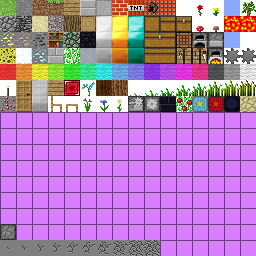
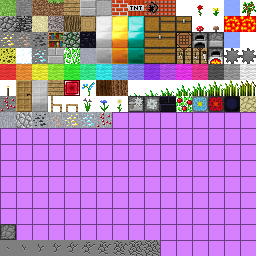
kinda floating world gen overhaul

Changed region(s): [[0.0, 0.4375, 0.4375, 0.5]]

diff --git a/src/game/java/net/minecraft/game/level/block/Block.java b/src/game/java/net/minecraft/game/level/block/Block.java
@@ -107,6 +107,13 @@ public class Block {
 	public static final Block brickObsidian;
 	public static final Block leavesApple;
 	public static final Block stoneSand;
+	public static final Block stoneLite;
+	public static final Block cobblestoneLite;
+	public static final Block oreLiteCoal;
+	public static final Block oreLiteIron;
+	public static final Block oreLiteGold;
+	public static final Block oreLiteDiamond;
+	public static final Block oreLiteRuby;
 	public int blockIndexInTexture;
 	public final int blockID;
 	private float hardness;
@@ -797,6 +804,41 @@ public class Block {
 		var0 = var10000;
 		var0.stepSound = var1;
 		stoneSand = var0;
+		var10000 = (new BlockLiteStone(75, 112)).setHardness(1.5F).setResistance(10.0F);
+		var1 = soundStoneFootstep;
+		var0 = var10000;
+		var0.stepSound = var1;
+		stoneLite = var0;
+		var10000 = (new Block(76, 113, Material.rock, "Cobbled Litestone")).setHardness(2.0F).setResistance(10.0F);
+		var1 = soundStoneFootstep;
+		var0 = var10000;
+		var0.stepSound = var1;
+		cobblestoneLite = var0;
+		var10000 = (new BlockOre(77, 114, "Lite Coal Ore")).setHardness(3.0F).setResistance(5.0F);
+		var1 = soundStoneFootstep;
+		var0 = var10000;
+		var0.stepSound = var1;
+		oreLiteCoal = var0;
+		var10000 = (new BlockOre(78, 115, "Lite Iron Ore")).setHardness(3.0F).setResistance(5.0F);
+		var1 = soundStoneFootstep;
+		var0 = var10000;
+		var0.stepSound = var1;
+		oreLiteIron = var0;
+		var10000 = (new BlockOre(79, 115, "Lite Gold Ore")).setHardness(3.0F).setResistance(5.0F);
+		var1 = soundStoneFootstep;
+		var0 = var10000;
+		var0.stepSound = var1;
+		oreLiteGold = var0;
+		var10000 = (new BlockOre(80, 115, "Lite Diamond Ore")).setHardness(3.0F).setResistance(5.0F);
+		var1 = soundStoneFootstep;
+		var0 = var10000;
+		var0.stepSound = var1;
+		oreLiteDiamond = var0;
+		var10000 = (new BlockOre(81, 115, "Lite Ruby Ore")).setHardness(3.0F).setResistance(5.0F);
+		var1 = soundStoneFootstep;
+		var0 = var10000;
+		var0.stepSound = var1;
+		oreLiteRuby = var0;
 		for (int var2 = 0; var2 < 256; ++var2) {
 			if (blocksList[var2] != null) {
 				Item.itemsList[var2] = new ItemBlock(var2 - 256, blocksList[var2].name);

diff --git a/src/game/java/net/minecraft/game/item/ItemPickaxe.java b/src/game/java/net/minecraft/game/item/ItemPickaxe.java
@@ -4,7 +4,7 @@ import net.minecraft.game.level.block.Block;
 import net.minecraft.game.level.material.Material;
 
 public final class ItemPickaxe extends ItemTool {
-	private static Block[] blocksEffectiveAgainst = new Block[]{Block.cobblestone, Block.stairDouble, Block.stairSingle, Block.stone, Block.cobblestoneMossy, Block.oreIron, Block.blockSteel, Block.oreCoal, Block.blockGold, Block.oreGold, Block.oreDiamond, Block.blockDiamond, Block.oreRuby, Block.stonecutter, Block.brickStone, Block.stoneOvenIdle, Block.stoneOvenActive};
+	private static Block[] blocksEffectiveAgainst = new Block[]{Block.cobblestone, Block.stairDouble, Block.stairSingle, Block.stone, Block.cobblestoneMossy, Block.oreIron, Block.blockSteel, Block.oreCoal, Block.blockGold, Block.oreGold, Block.oreDiamond, Block.blockDiamond, Block.oreRuby, Block.stonecutter, Block.brickStone, Block.stoneOvenIdle, Block.stoneOvenActive, Block.stoneLite, Block.cobblestoneLite, Block.oreLiteCoal, Block.oreLiteIron, Block.oreLiteGold, Block.oreLiteDiamond, Block.oreLiteRuby};
 	private int harvestLevel;
 
 	public ItemPickaxe(int var1, int var2, String var3) {
@@ -13,6 +13,6 @@ public final class ItemPickaxe extends ItemTool {
 	}
 
 	public final boolean canHarvestBlock(Block var1) {
-		return var1 == Block.obsidian ? this.harvestLevel == 3 : (var1 != Block.blockDiamond && var1 != Block.oreDiamond ? (var1 != Block.blockGold && var1 != Block.oreGold ? (var1 != Block.blockSteel && var1 != Block.oreIron ? (var1.material == Material.rock ? true : var1.material == Material.iron) : this.harvestLevel > 0) : this.harvestLevel >= 2) : this.harvestLevel >= 2);
+		return var1 == Block.obsidian ? this.harvestLevel == 3 : (var1 != Block.blockDiamond && var1 != Block.oreDiamond && var1 != Block.oreLiteDiamond && var1 != Block.oreRuby && var1 != Block.oreLiteRuby ? (var1 != Block.blockGold && var1 != Block.oreGold && var1 != Block.oreLiteGold ? (var1 != Block.blockSteel && var1 != Block.oreIron && var1 != Block.oreLiteIron ? (var1.material == Material.rock ? true : var1.material == Material.iron) : this.harvestLevel > 0) : this.harvestLevel >= 2) : this.harvestLevel >= 2);
 	}
 }

diff --git a/src/game/java/net/minecraft/game/item/recipe/CraftingManager.java b/src/game/java/net/minecraft/game/item/recipe/CraftingManager.java
@@ -28,6 +28,8 @@ public final class CraftingManager {
 		this.addRecipe(new ItemStack(Block.stoneOvenIdle), new Object[]{"###", "# #", "###", Character.valueOf('#'), Block.cobblestone});
 		this.addRecipe(new ItemStack(Block.workbench), new Object[]{"##", "##", Character.valueOf('#'), Block.planks});
 		this.addRecipe(new ItemStack(Block.stonecutter), new Object[]{"##", "##", Character.valueOf('#'), Block.cobblestone});
+		this.addRecipe(new ItemStack(Block.stonecutter), new Object[]{"XX", "XX", Character.valueOf('X'), Block.cobblestoneLite});
+		this.addRecipe(new ItemStack(Block.stoneOvenIdle), new Object[]{"###", "# #", "###", Character.valueOf('#'), Block.cobblestoneLite});
 		(new RecipesArmor()).addRecipes(this);
 		this.addRecipe(new ItemStack(Block.clothWhite, 1), new Object[]{"###", "###", "###", Character.valueOf('#'), Item.silk});
 		this.addRecipe(new ItemStack(Block.tnt, 1), new Object[]{"X#X", "#X#", "X#X", Character.valueOf('X'), Item.gunpowder, Character.valueOf('#'), Block.sand});
@@ -69,7 +71,6 @@ public final class CraftingManager {
 		this.addRecipe(new ItemStack(Block.clothRose, 1), new Object[]{"#X", Character.valueOf('#'), Item.dyeRose, Character.valueOf('X'), Block.clothWhite});
 		this.addRecipe(new ItemStack(Item.dyeGrey, 2), new Object[]{"#", Character.valueOf('#'), Block.plantGrey});
 		this.addRecipe(new ItemStack(Block.clothGray, 1), new Object[]{"#X", Character.valueOf('#'), Item.dyeGrey, Character.valueOf('X'), Block.clothWhite});
-		this.addRecipe(new ItemStack(Block.stonecutter, 1), new Object[]{"XX", "XX", Character.valueOf('X'), Block.cobblestone});
 			
 		Collections.sort(this.recipes, new RecipeSorter(this));
 		System.out.println(this.recipes.size() + " recipes");

diff --git a/src/game/java/net/minecraft/game/level/block/tileentity/TileEntityFurnace.java b/src/game/java/net/minecraft/game/level/block/tileentity/TileEntityFurnace.java
@@ -178,7 +178,7 @@ public final class TileEntityFurnace extends TileEntity implements IInventory {
 	}
 
 	private static int smeltItem(int var0) {
-		return var0 == Block.oreIron.blockID ? Item.ingotIron.shiftedIndex : (var0 == Block.oreGold.blockID ? Item.ingotGold.shiftedIndex : (var0 == Block.oreDiamond.blockID ? Item.diamond.shiftedIndex : (var0 == Block.sand.blockID ? Block.glass.blockID : (var0 == Item.porkRaw.shiftedIndex ? Item.porkCooked.shiftedIndex : (var0 == Block.cobblestone.blockID ? Block.stone.blockID : (var0 == Block.oreRuby.blockID ? Item.ruby.shiftedIndex : (var0 == Item.clay.shiftedIndex ? Item.brick.shiftedIndex : (var0 == Item.monstermeat.shiftedIndex ? Item.monstermeatCooked.shiftedIndex : -1))))))));
+		return var0 == Block.oreIron.blockID ? Item.ingotIron.shiftedIndex : (var0 == Block.oreGold.blockID ? Item.ingotGold.shiftedIndex : (var0 == Block.oreDiamond.blockID ? Item.diamond.shiftedIndex : (var0 == Block.sand.blockID ? Block.glass.blockID : (var0 == Item.porkRaw.shiftedIndex ? Item.porkCooked.shiftedIndex : (var0 == Block.cobblestone.blockID ? Block.stone.blockID : (var0 == Block.oreRuby.blockID ? Item.ruby.shiftedIndex : (var0 == Item.clay.shiftedIndex ? Item.brick.shiftedIndex : (var0 == Item.monstermeat.shiftedIndex ? Item.monstermeatCooked.shiftedIndex : (var0 == Block.oreLiteIron.blockID ? Item.ingotIron.shiftedIndex : (var0 == Block.oreLiteGold.blockID ? Item.ingotGold.shiftedIndex : -1))))))))));
 	}
 
 	private static int getItemBurnTime(ItemStack var0) {

diff --git a/src/game/java/net/minecraft/game/level/generator/LevelGenerator.java b/src/game/java/net/minecraft/game/level/generator/LevelGenerator.java
@@ -215,7 +215,7 @@ public final class LevelGenerator {
 						if (var35 <= var31) {
 							var37 = Block.stone.blockID;
 								if (var9.floatingGen && var35 < var31) {
-								var37 = Block.wood.blockID;
+								var37 = Block.stoneLite.blockID;
 							}
 						}
 
@@ -351,6 +351,15 @@ public final class LevelGenerator {
 		var45 = this.populateOre(Block.oreGold.blockID, 500, 6, (var4 << 1) / 5);
 		var5 = this.populateOre(Block.oreDiamond.blockID, 800, 2, var4 / 5);
 		int ruby = this.populateOre(Block.oreRuby.blockID, 500, 2, var4 / 5);
+		if (this.floatingGen) {
+			var7 = this.populateOre(Block.oreLiteCoal.blockID, 1000, 10, (var4 << 2) / 5);
+			var44 = this.populateOre(Block.oreLiteIron.blockID, 800, 8, var4 * 3 / 5);
+			var45 = this.populateOre(Block.oreLiteGold.blockID, 500, 6, (var4 << 1) / 5);
+			var5 = this.populateOre(Block.oreLiteDiamond.blockID, 800, 2, var4 / 5);
+			ruby = this.populateOre(Block.oreLiteRuby.blockID, 500, 2, var4 / 5);
+
+		}
+
 		System.out
 				.println("Coal: " + var7 + ", Iron: " + var44 + ", Gold: " + var45 + ", Diamond: " + var5 + ", Ruby: " + ruby);
 		this.guiLoading.displayLoadingString("Melting..");

diff --git a/src/game/java/net/minecraft/game/level/block/BlockOre.java b/src/game/java/net/minecraft/game/level/block/BlockOre.java
@@ -12,7 +12,10 @@ public final class BlockOre extends Block {
 	public final int idDropped(int var1, Random var2) {
 		return this.blockID == Block.oreCoal.blockID ? Item.coal.shiftedIndex
 				: (this.blockID == Block.oreDiamond.blockID ? Item.diamond.shiftedIndex
-						: (this.blockID == Block.oreRuby.blockID ? Item.ruby.shiftedIndex : this.blockID));
+						: (this.blockID == Block.oreRuby.blockID ? Item.ruby.shiftedIndex
+								: (this.blockID == Block.oreLiteCoal.blockID ? Item.coal.shiftedIndex
+										: (this.blockID == Block.oreLiteDiamond.blockID ? Item.diamond.shiftedIndex
+												: (this.blockID == Block.oreLiteRuby.blockID ? Item.ruby.shiftedIndex : this.blockID)))));
 	}
 
 	public final int quantityDropped(Random var1) {

diff --git a/src/game/java/net/minecraft/game/level/block/BlockLiteStone.java b/src/game/java/net/minecraft/game/level/block/BlockLiteStone.java
@@ -1,0 +1,14 @@
+package net.minecraft.game.level.block;
+
+import net.lax1dude.eaglercraft.Random;
+import net.minecraft.game.level.material.Material;
+
+public final class BlockLiteStone extends Block {
+	public BlockLiteStone(int var1, int var2) {
+		super(var1, var2, Material.rock, "Litestone");
+	}
+
+	public final int idDropped(int var1, Random var2) {
+		return Block.cobblestoneLite.blockID;
+	}
+}
